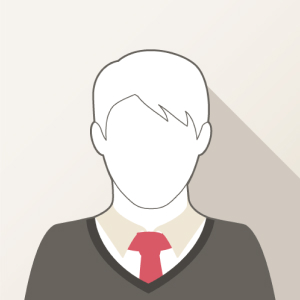
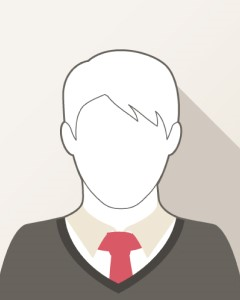
기본이미지(img_avatar1.jpg) 규격 수정(240x300)

diff --git a/finalProject/src/main/webapp/resources/css/common.css b/finalProject/src/main/webapp/resources/css/common.css
@@ -1647,7 +1647,7 @@ div.dt-container .dt-paging .dt-paging-button.disabled, div.dt-container .dt-pag
 /* 직원 관리 */
 /* 직원 관리 :: profile */
 .profile_img_wrap{
-  width: 300px;
+  width: 240px;
   height: 300px;
 }
 .profile_img_wrap label{
